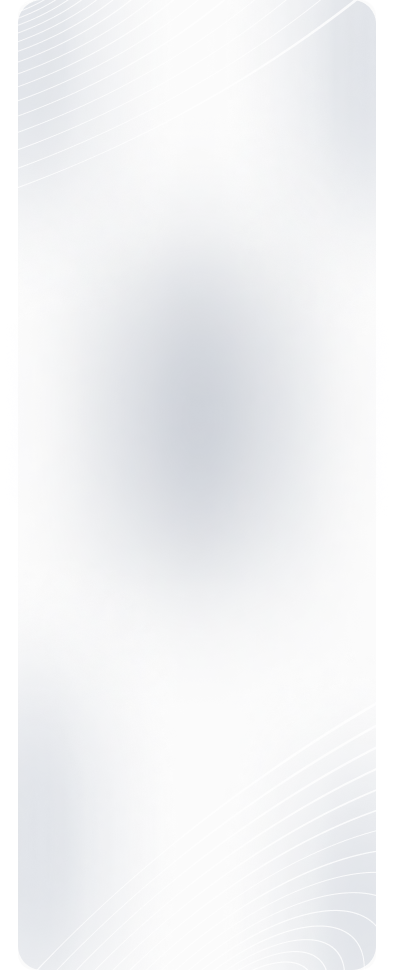
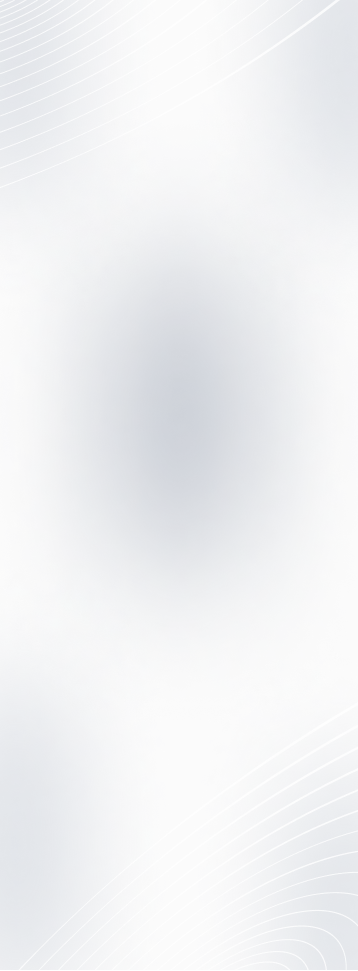
CU-85ztfvkpw - Frontend : Landing page Design

diff --git a/components/Homepage/Hero.js b/components/Homepage/Hero.js
@@ -4,8 +4,36 @@ import Image from "next/image";
 import largehero2 from "../../public/assets/homepage/largehomeheroasset2.png";
 import largeHomehero from "../../public/assets/homepage/largehomeheroasset.png";
 // import smallhero2 from "../../public/assets/homepage/smallhomeheroasset2.png";
-// import Partner1 from "../../public/assets/homepage/kabirlogo.png";
-// import Partner1 from "../../public/assets/homepage/ucblogo.png";
+import Partner1 from "../../public/assets/homepage/kabirlogo.png";
+import Partner2 from "../../public/assets/homepage/ucblogo.png";
+import ImageMarquee from "./ImageMarquee";
+const images = [
+  {
+    id: 1,
+    image: Partner1,
+  },
+  {
+    id: 2,
+    image: Partner2,
+  },
+  {
+    id: 3,
+    image: Partner1,
+  },
+  {
+    id: 4,
+    image: Partner2,
+  },
+  {
+    id: 5,
+    image: Partner1,
+  },
+  {
+    id: 6,
+    image: Partner2,
+  },
+  // Add more image URLs as needed
+];
 
 function Hero() {
   return (
@@ -47,6 +75,7 @@ function Hero() {
               Stock Brokerage House <br />
               and Enterprise Companies:
             </p>
+            <ImageMarquee images={images} />
           </div>
         </div>
       </div>

diff --git a/components/Homepage/ImageMarquee.js b/components/Homepage/ImageMarquee.js
@@ -1,0 +1,29 @@
+import React from "react";
+import Image from "next/image";
+import Marquee from "react-fast-marquee";
+
+const ImageMarquee = ({ images }) => {
+  return (
+    <>
+      <div className="border-dashed border-t-2 border-t-ntl_gray_2 ">
+        <Marquee
+          speed={40} // Adjust the speed as needed
+          pauseOnHover
+          gradient={false} // Set to true if you want to add gradient effect
+          className="py-8"
+        >
+          {images.map((image, index) => (
+            <Image
+              key={index}
+              src={typeof image === "string" ? image : image.image}
+              alt={`Image ${index + 1}`}
+              className="w-auto h-auto object-cover rounded-md mx-5  "
+            />
+          ))}
+        </Marquee>{" "}
+      </div>
+    </>
+  );
+};
+
+export default ImageMarquee;

diff --git a/components/Navbar/Navbar.js b/components/Navbar/Navbar.js
@@ -15,7 +15,7 @@ function Navbar() {
   return (
     <>
       <div className="sticky z-50 top-0 left-0 right-0 w-full">
-        <div className="px-10 2xl:px-80 xsm:px-5 sm:px-5 bg-ngl_white/60 backdrop-blur-sm backdrop-filter">
+        <div className="px-10 2xl:px-80 xsm:px-5 sm:px-5 bg-ntl_white/60  backdrop-blur-sm backdrop-filter">
           <div className="py-5">
             <div className="flex justify-between">
               <Link href="/" className="cursor-pointer">

diff --git a/styles/globals.css b/styles/globals.css
@@ -41,12 +41,13 @@
   background-size: cover;
   margin: 0;
   padding: 0;
+  border-radius: 30px;
   height: 100%;
   width: 100%;
 }
 @media only screen and (max-width: 768px) {
   .landing_bg {
-    background-image: url(../public/assets/homepage/largeheroasset.png);
+    background-image: url(../public/assets/homepage/smalllandingheroasset.png);
     background-repeat: no-repeat;
     background-size: cover;
     margin: 0;

diff --git a/tailwind.config.js b/tailwind.config.js
@@ -17,7 +17,7 @@ module.exports = {
     colors: {
       ntl_black: "#262626",
       ngl_gray: "#707070",
-      ngl_gray_2: "#D0D5DD",
+      ntl_gray_2: "#D0D5DD",
       ngl_gray_3: "#757E95",
       ntl_white: "#Ffffff",
       ngl_white_1: "#FAFAFA",

diff --git a/components/Layout/Applayout.js b/components/Layout/Applayout.js
@@ -1,6 +1,6 @@
 import React from "react";
 import Navbar from "../Navbar/Navbar";
-import Footer from "../Footer/footer";
+import Footer from "../Footer/Footer";
 
 const Applayout = ({ header, children }) => {
   return (
